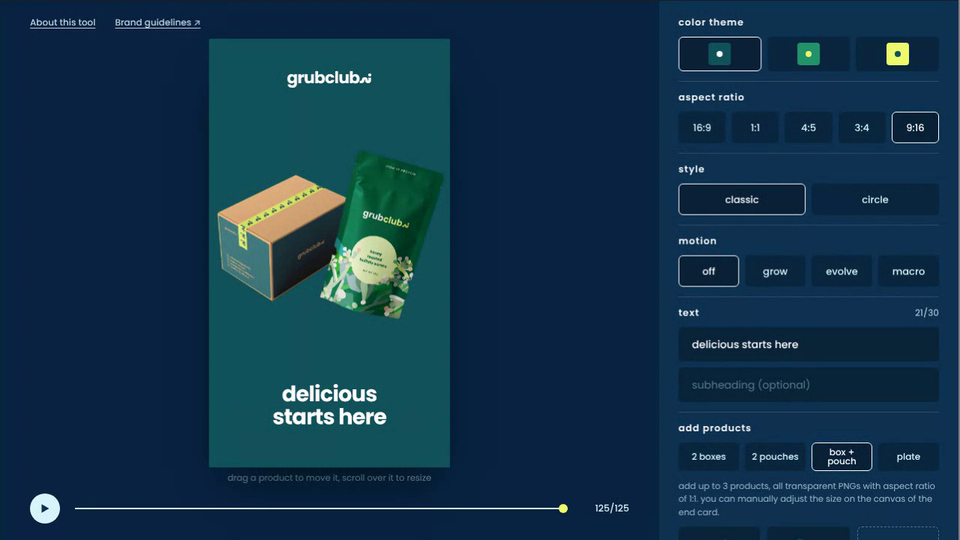
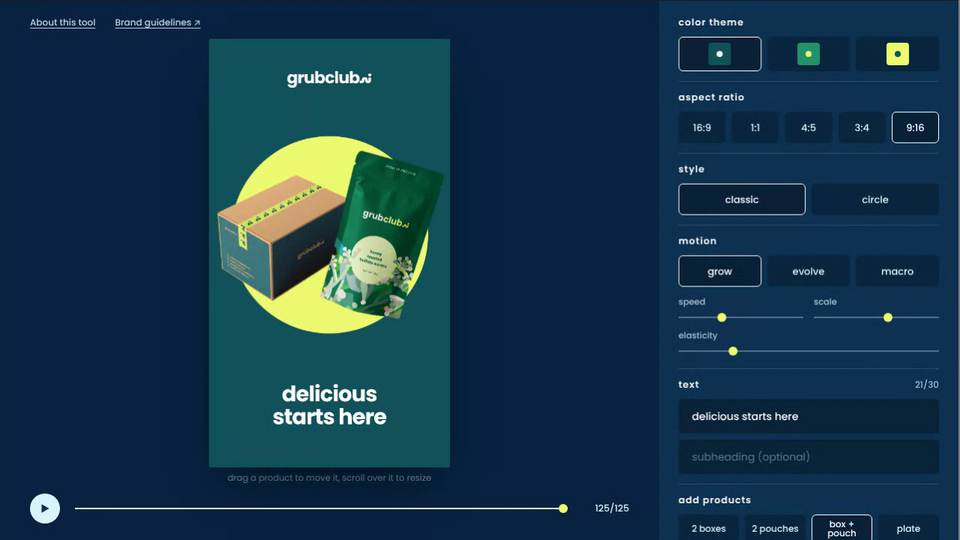
End Card Maker: plate spins slowly and reveals from its centre, motion always on and starts on grow
Claude-Session: https://claude.ai/code/session_01AHeBdyiVvLiqirjg3HPEF

diff --git a/grubclub-end-card/index.html b/grubclub-end-card/index.html
@@ -157,7 +157,7 @@ const THEMES=[
 const RATIOS=[['16:9',1920,1080],['1:1',1080,1080],['4:5',1080,1350],['3:4',1080,1440],['9:16',1080,1920]];
 
 /* ---------------- state ---------------- */
-const S={theme:0,ratio:4,style:0,motion:0,sub:'',mspeed:1,mscale:1,melas:2,mrings:6,text:'delicious starts here',prods:[],speed:1};
+const S={theme:0,ratio:4,style:0,motion:1,sub:'',mspeed:1,mscale:1,melas:2,mrings:6,text:'delicious starts here',prods:[],speed:1};
 let frame=FR, playing=false, last=0, acc=0, exporting=false;
 const wm=new Image(); wm.src=WM_SRC;
 const wmCache={};
@@ -173,10 +173,10 @@ const SETS=[
  {n:'2 boxes',  p:[['boxes.webp','entomo boxes']]},
  {n:'2 pouches',p:[['pouch-green.webp','honey roasted buffalo worms'],['pouch-blue.webp','lightly salted dehydrated grasshoppers']]},
  {n:'box + pouch',p:[['box.webp','entomo box'],['pouch-green.webp','honey roasted buffalo worms']]},
- {n:'plate',p:[['plate.webp','plate']]}];
+ {n:'plate',p:[['plate.webp','plate',true]]}];
 const IMGS={};
 function pic(src){ if(!IMGS[src]){ const im=new Image(); im.onload=()=>{render();tiles()}; im.src=src; IMGS[src]=im; } return IMGS[src]; }
-function loadSet(i){ S.set=i; S.prods=SETS[i].p.map(([src,name])=>({img:pic(src),name,dx:0,dy:0,sc:1})); tiles(); render(); }
+function loadSet(i){ S.set=i; S.prods=SETS[i].p.map(([src,name,spin])=>({img:pic(src),name,spin,dx:0,dy:0,sc:1})); tiles(); render(); }
 S.prods=[]; S.set=2;
 
 /* ---------------- drawing ---------------- */
@@ -258,11 +258,16 @@ function scene(c,W,H,f,collect,th){
   const n=S.prods.length, sl=slots(n), z=L.zone, order=sl.map((s,i)=>i).sort((a,b)=>sl[a][2]-sl[b][2]);
   if(collect) hits=[];
   order.forEach((i,ri)=>{
-    const p=S.prods[i], [sx,sy,ss]=sl[i], sz=z.s*ss*p.sc, a=eob((f-(16+ri*8))/26), o=eo((f-(16+ri*8))/10);
+    const p=S.prods[i], [sx,sy,ss]=sl[i], sz=z.s*ss*p.sc, rv=sine((f-(16+ri*8))/38), a=p.spin?1:eob((f-(16+ri*8))/26), o=p.spin?(rv>0?1:0):eo((f-(16+ri*8))/10);
     if(o<=0) return;
     const bob=f>=FR-1?0:0; const cx=z.cx+sx*z.s+p.dx*W, cy=z.cy+sy*z.s+p.dy*H+(1-a)*z.s*.35;
     const im=p.img, iw=im.naturalWidth||im.width, ih=im.naturalHeight||im.height; if(!iw) return;
     const r=Math.min(sz/iw,sz/ih), dw=iw*r, dh=ih*r;
+    if(p.spin){   // the plate is revealed by a circle expanding from its centre, then turns slowly and subtly (about 26 degrees across the card)
+      c.save(); c.translate(cx,cy); c.rotate(f/FR*.45);
+      if(S.style===1){ c.save(); c.shadowColor='rgba(10,45,35,.3)'; c.shadowBlur=70*curK; c.shadowOffsetY=22*curK; c.fillStyle='#fff'; c.beginPath(); c.arc(0,0,dw/2*.985*rv,0,Math.PI*2); c.fill(); c.restore(); }
+      c.beginPath(); c.arc(0,0,dw/2*rv,0,Math.PI*2); c.clip(); c.drawImage(im,-dw/2,-dh/2,dw,dh); c.restore();
+      if(collect) hits.push({i,x:cx-dw/2,y:cy-dh/2,w:dw,h:dh}); return; }
     c.save(); c.globalAlpha=o; if(S.style===1){ c.shadowColor='rgba(10,45,35,.3)'; c.shadowBlur=70*curK; c.shadowOffsetY=22*curK; } c.translate(cx,cy+bob); c.rotate((1-a)*(i%2?.12:-.12)); c.drawImage(im,-dw/2,-dh/2,dw,dh); c.restore();
     if(collect) hits.push({i,x:cx-dw/2,y:cy-dh/2,w:dw,h:dh});
   });
@@ -331,9 +336,9 @@ const STYLES=['classic','circle'];
 $('#styles').innerHTML=STYLES.map((m,i)=>`<button class="opt" data-i="${i}" aria-pressed="${i===S.style}">${m}</button>`).join('');
 $('#styles').onclick=e=>{const b=e.target.closest('.opt'); if(!b)return; S.style=+b.dataset.i; press($('#styles'),S.style);
   if(S.style===1&&S.set!==3){ loadSet(3); press($('#sets'),3); } else if(S.style===0&&S.set===3){ loadSet(2); press($('#sets'),2); } else render(); };
-const MOTIONS=['off','grow','evolve','macro'];
-$('#motions').innerHTML=MOTIONS.map((m,i)=>`<button class="opt" data-i="${i}" aria-pressed="${i===S.motion}">${m}</button>`).join('');
-$('#motions').onclick=e=>{const b=e.target.closest('.opt'); if(!b)return; S.motion=+b.dataset.i; press($('#motions'),S.motion); thirdUI(); render()};
+const MOTIONS=['grow','evolve','macro'];   // motion is always on: S.motion is 1 grow, 2 evolve, 3 macro
+$('#motions').innerHTML=MOTIONS.map((m,i)=>`<button class="opt" data-i="${i+1}" aria-pressed="${i+1===S.motion}">${m}</button>`).join('');
+$('#motions').onclick=e=>{const b=e.target.closest('.opt'); if(!b)return; S.motion=+b.dataset.i; press($('#motions'),S.motion-1); thirdUI(); render()};
 function thirdUI(){
   const t=$('#mThird'), m=S.motion; $('#msl').classList.toggle('on',m>0); $('#mThirdL').hidden=!(m===1||m===2);
   if(m===1){ $('#mThirdT').textContent='elasticity'; t.min=1; t.max=6; t.step=1; t.value=S.melas; }
@@ -405,7 +410,7 @@ $('#exp').onclick=async()=>{
 };
 
 /* ---------------- start ---------------- */
-size(); setPP(); loadSet(2); press($('#sets'),2); requestAnimationFrame(tick);
+thirdUI(); size(); setPP(); loadSet(2); press($('#sets'),2); requestAnimationFrame(tick);
 (document.fonts&&document.fonts.load?Promise.all(['400','500','600','700'].map(w=>document.fonts.load(w+' 40px Poppins'))):Promise.resolve()).then(()=>{ Object.keys(wmCache).forEach(k=>delete wmCache[k]); render(); setTimeout(()=>{ if(!touched) play(); },250); }).catch(()=>{ if(!touched) play(); });
 window.ec={play:o=>play(o),seek,pause,get frame(){return frame}};
 </script>

diff --git a/tools/record-clips.js b/tools/record-clips.js
@@ -61,7 +61,7 @@ const APPS = {
     run: async (p) => {
       const t0 = Date.now();
       await at(t0, 1400, () => p.evaluate(() => ec.play({ speed: 3, loop: false })));
-      await at(t0, 3200, () => domClick(p, '#motions .opt:nth-child(3)'));
+      await at(t0, 3200, () => domClick(p, '#motions .opt:nth-child(2)'));
       await at(t0, 4200, () => domClick(p, '#styles .opt:nth-child(2)'));
       await at(t0, 5000, () => domClick(p, '#themes .opt:nth-child(3)'));
       await at(t0, 5700, () => domClick(p, '#ratios .opt:nth-child(2)'));
